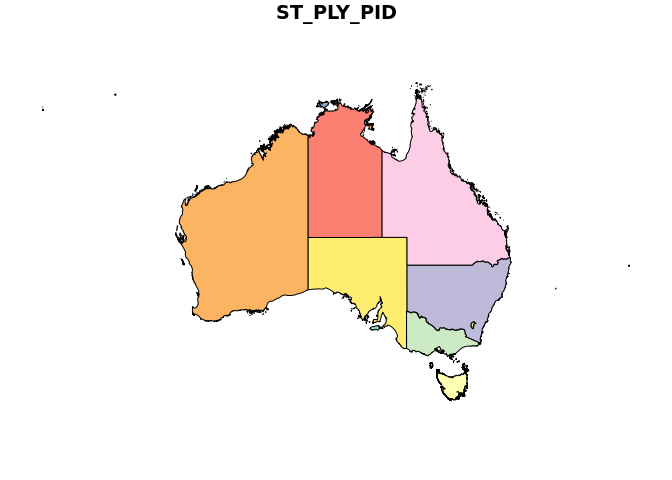
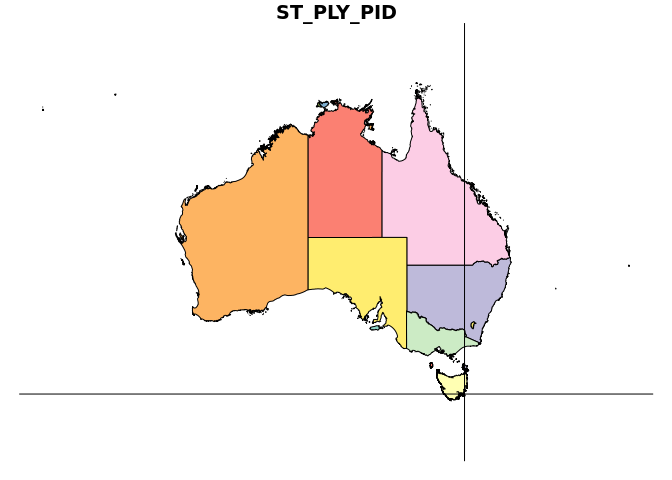
update readme

Changed region(s): [[0.0312, 0.8125, 0.6562, 0.8438], [0.6875, 0.8125, 0.9688, 0.8438]]

diff --git a/README.md b/README.md
@@ -8,7 +8,9 @@ The goal of ozplot is to get maps of Australia to plot!
 Obtain a set of shapefiles
 --------------------------
 
-This block of code will download a ~1Gb zip file with many shapefiles in nested folders. I originally chose the MapInfo format, but those had empty geometries(!).
+This block of code will download a ~1.5Gb zip file with many shapefiles in nested folders. I originally chose the MapInfo format, but those had empty geometries(!).
+
+I discovered these links (ESRI Shapefile and MapInfo) at this site: <https://data.gov.au/dataset/psma-administrative-boundaries> .
 
 ``` r
 #f <- "https://data.gov.au/dataset/bdcf5b09-89bc-47ec-9281-6b8e9ee147aa/resource/cb2d6c1c-fd4c-4fd7-b93b-3796425bc0de/download/aug17adminboundsmapinfotabformat20170828133827.zip"
@@ -84,12 +86,12 @@ plot(elec[1])
 ## state
 state <- read_psma(fs %>% dplyr::filter(grepl("STATE_POLYGON", file)) %>% dplyr::pull(fullname))
 plot(state[1])
+abline(v = 148, h = -43)
 ```
 
 <img src="man/figures/README-data-3.png" width="100%" />
 
 ``` r
-
 
 ## that is very high resolution, checkout 
 plot(state[1], xlim = c(147.7, 148.2), ylim = c(-43.3, -43.0))
